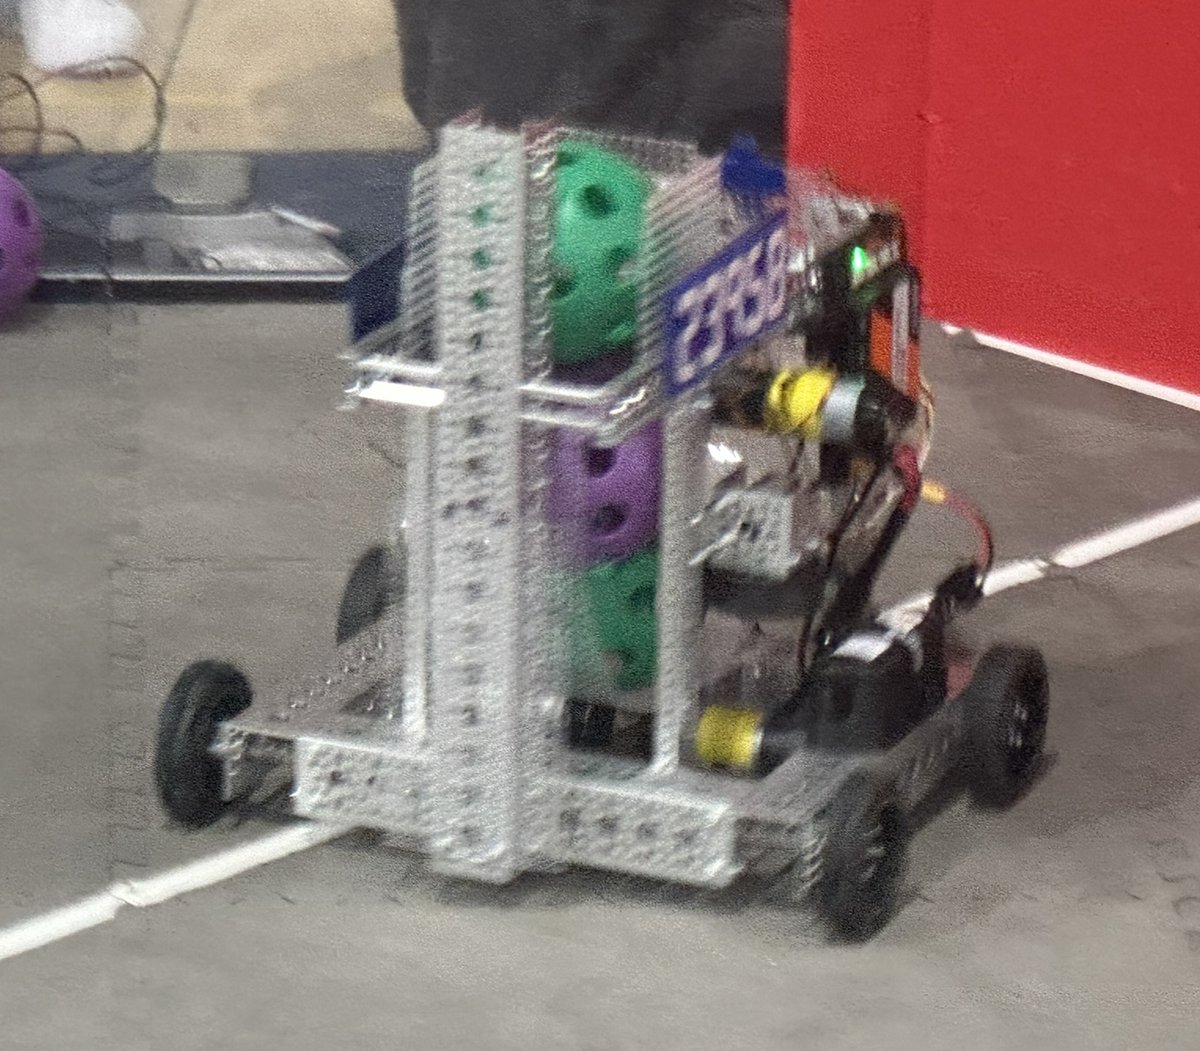
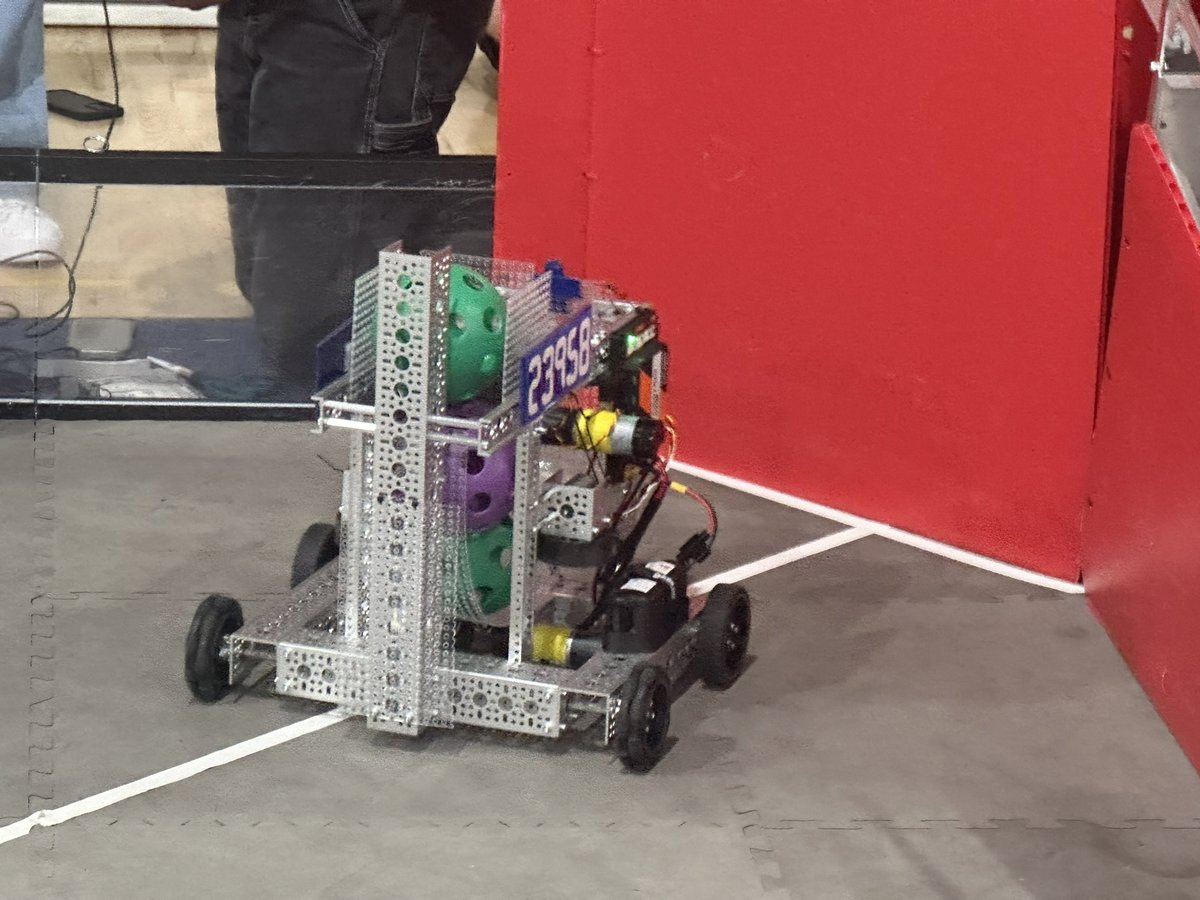
Update 23958 robot scouting photo

diff --git a/scouting/23958.md b/scouting/23958.md
@@ -23,7 +23,7 @@ title: "Scouting — 23958 Wait4iT"
 
 ### Scouting Notes
 
-- Match robot photo added for the current build at the Adventist Robotics League Championship.
+- Updated field-side robot photos added for the current build at the Adventist Robotics League Championship.
 - Side view clearly shows team number 23958 on the field nameplate.
 - Compact wheeled chassis with a tall curved intake or transfer assembly mounted on the front.
-- Additional action photo shows the robot carrying samples during match play.
+- Additional action photo shows the robot carrying samples during match play near the red field wall.
